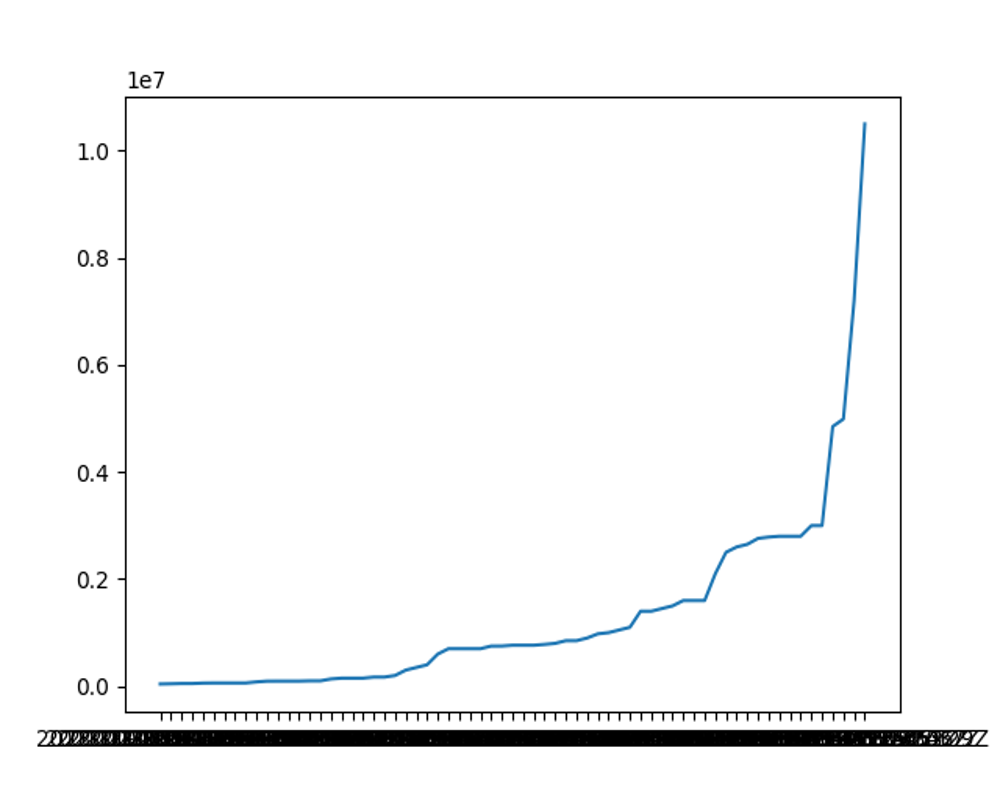
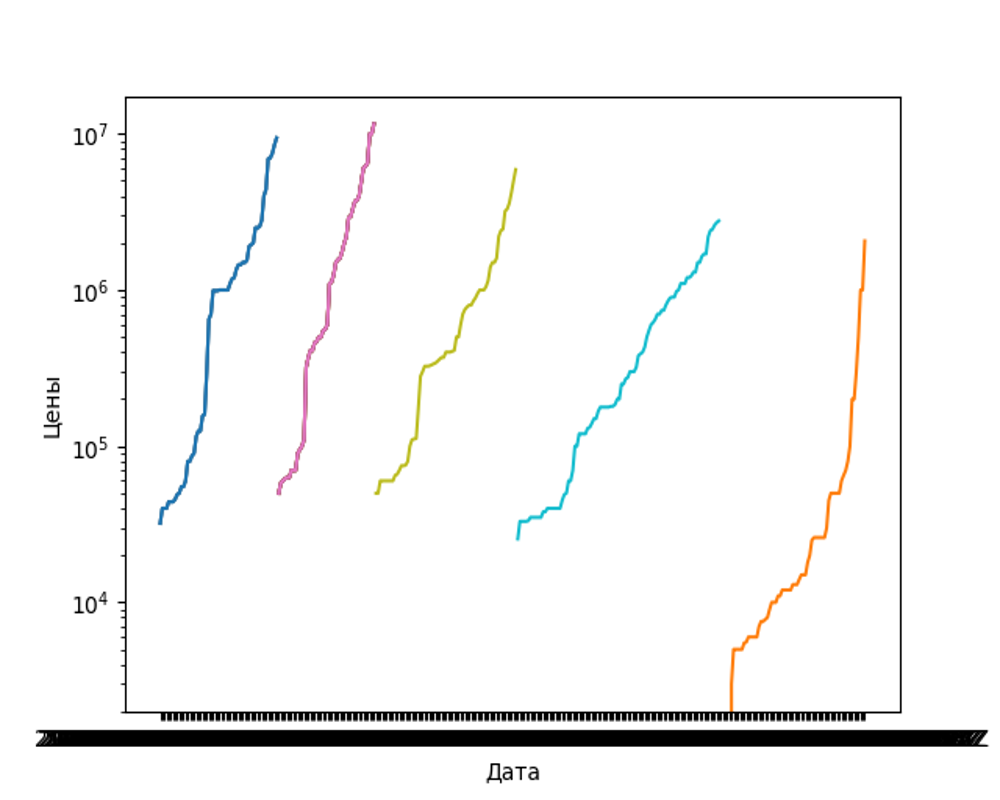
Работаем

diff --git a/main.py b/main.py
@@ -10,6 +10,7 @@ from PIL import Image
 from PyQt5 import uic
 from PyQt5.QtGui import QPixmap
 from PyQt5.QtWidgets import QApplication, QMainWindow, QTableWidgetItem, QMessageBox
+from os import remove
 
 import Auth
 
@@ -28,7 +29,8 @@ class Sc_helper(QMainWindow):
     def __get_grpah(self):
         lots = self.Input_item.toPlainText()
         print(lots)
-        x, y = self.stalc_handler(lots)
+        x, y, info = self.stalc_handler(lots)
+        print()
         if x == "Error":
             return 0
         self.aucList.setColumnCount(2)
@@ -41,7 +43,10 @@ class Sc_helper(QMainWindow):
                 print(x[i], y[i])
         except Exception:
             print('ОШИБКА')
-
+        try:
+            self.Info.setText(info)
+        except Exception:
+            print('Ошибка')
         print('-------------------------')
         print(x, y)
         plt.plot(x, y)
@@ -67,6 +72,10 @@ class Sc_helper(QMainWindow):
                              'Проверьте интернет соединение или написание лота', QMessageBox.Ok)
 
     def stalc_handler(self, lots):
+        try:
+            remove('Graph.png')
+        except Exception:
+            pass
         print('Я в stalc_handler')
         inputlots_find = ''
         inputlots = lots.lower().title()
@@ -78,10 +87,10 @@ class Sc_helper(QMainWindow):
                 WHERE name = '{inputlots}'""").fetchall()
         cur.close()
         print(result)
-        inputlots_find = result[0][1]
-        if not inputlots_find:
+        if not result:
             self.err()
-            return 'Error', 0
+            return 'Error', 0, 0
+        inputlots_find = result[0][1]
         print('Я прошёл файл')
         conn.request("GET", f"/RU/auction/{inputlots_find}/lots?limit=200&additional=true", headers=Auth.headers)
         print('conn ok')
@@ -115,8 +124,8 @@ class Sc_helper(QMainWindow):
                 print('error')
                 pass
         cur.close()
-        print('saddasdasdasd')
-        return date_lots, money_lots
+        print('saddasdasdasd', result)
+        return date_lots, money_lots, result[0][2]
 
 
 if __name__ == '__main__':
